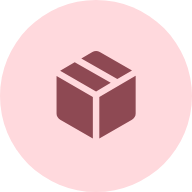
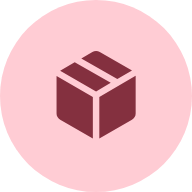
Íconos con los colores nuevos del estándar (rosa #FFCCD4, vino #84303F)
Claude-Session: https://claude.ai/code/session_01RxuB9vs623EuzMLeYyngVi

Changed region(s): [[0.2812, 0.25, 0.7188, 0.7188]]

diff --git a/sw.js b/sw.js
@@ -9,7 +9,7 @@
  * VERSION para que los celulares renueven la copia.
  *****************************************************************/
 
-const VERSION = 'inv-gases-v12';
+const VERSION = 'inv-gases-v13';
 
 const ARCHIVOS = [
   './',
